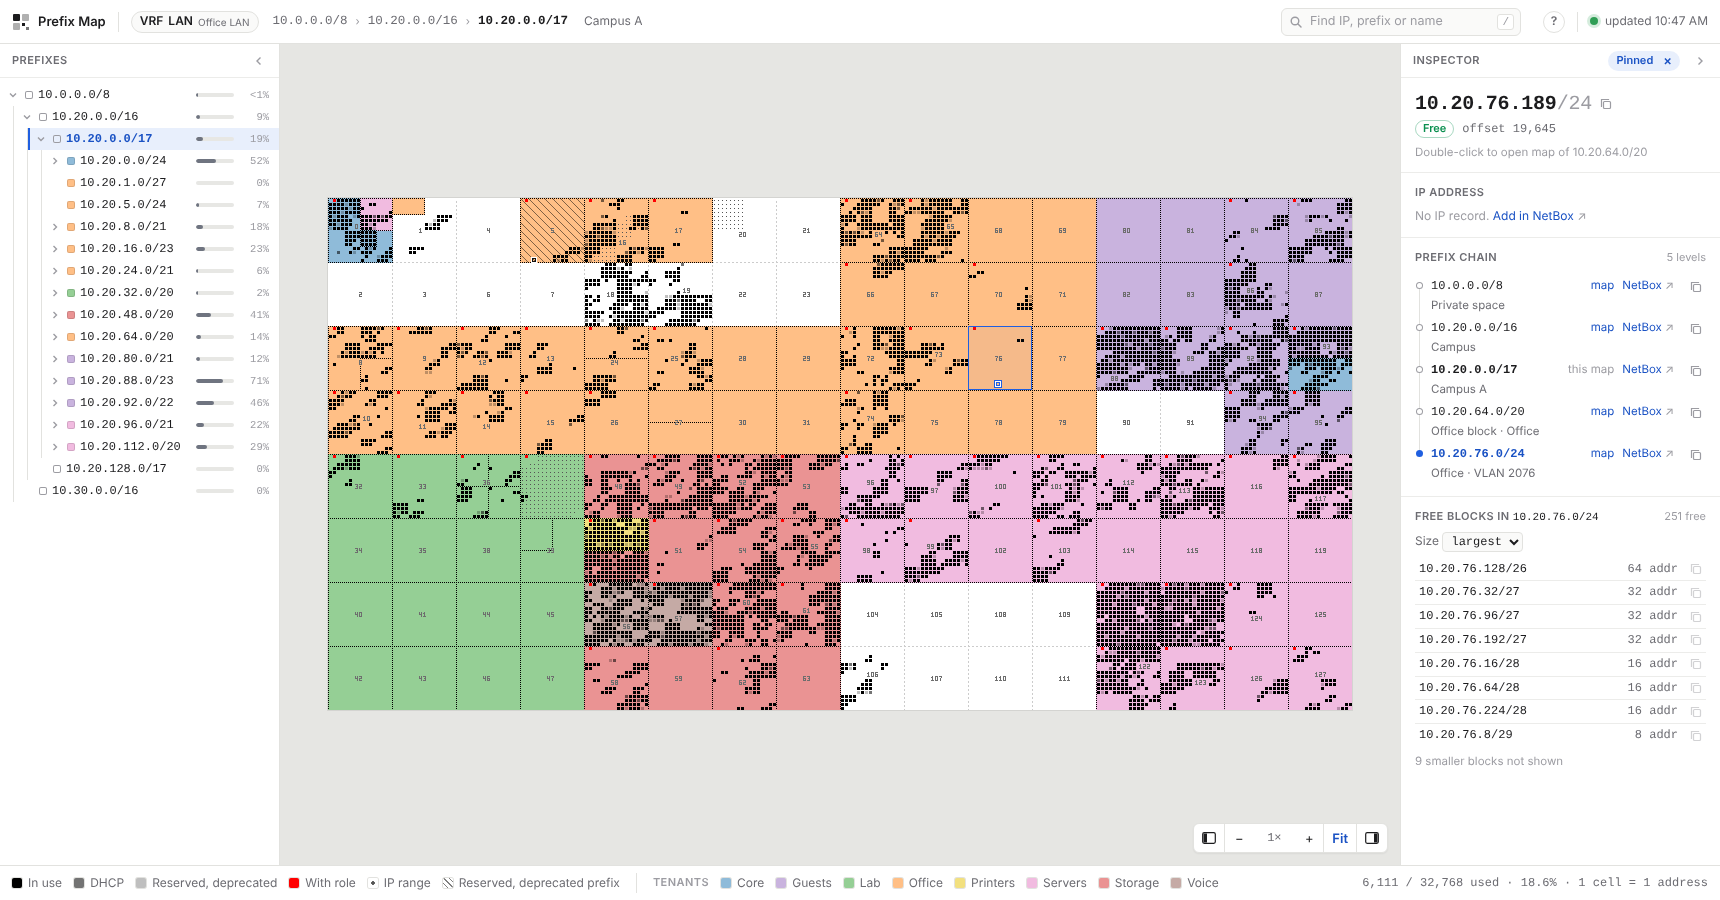
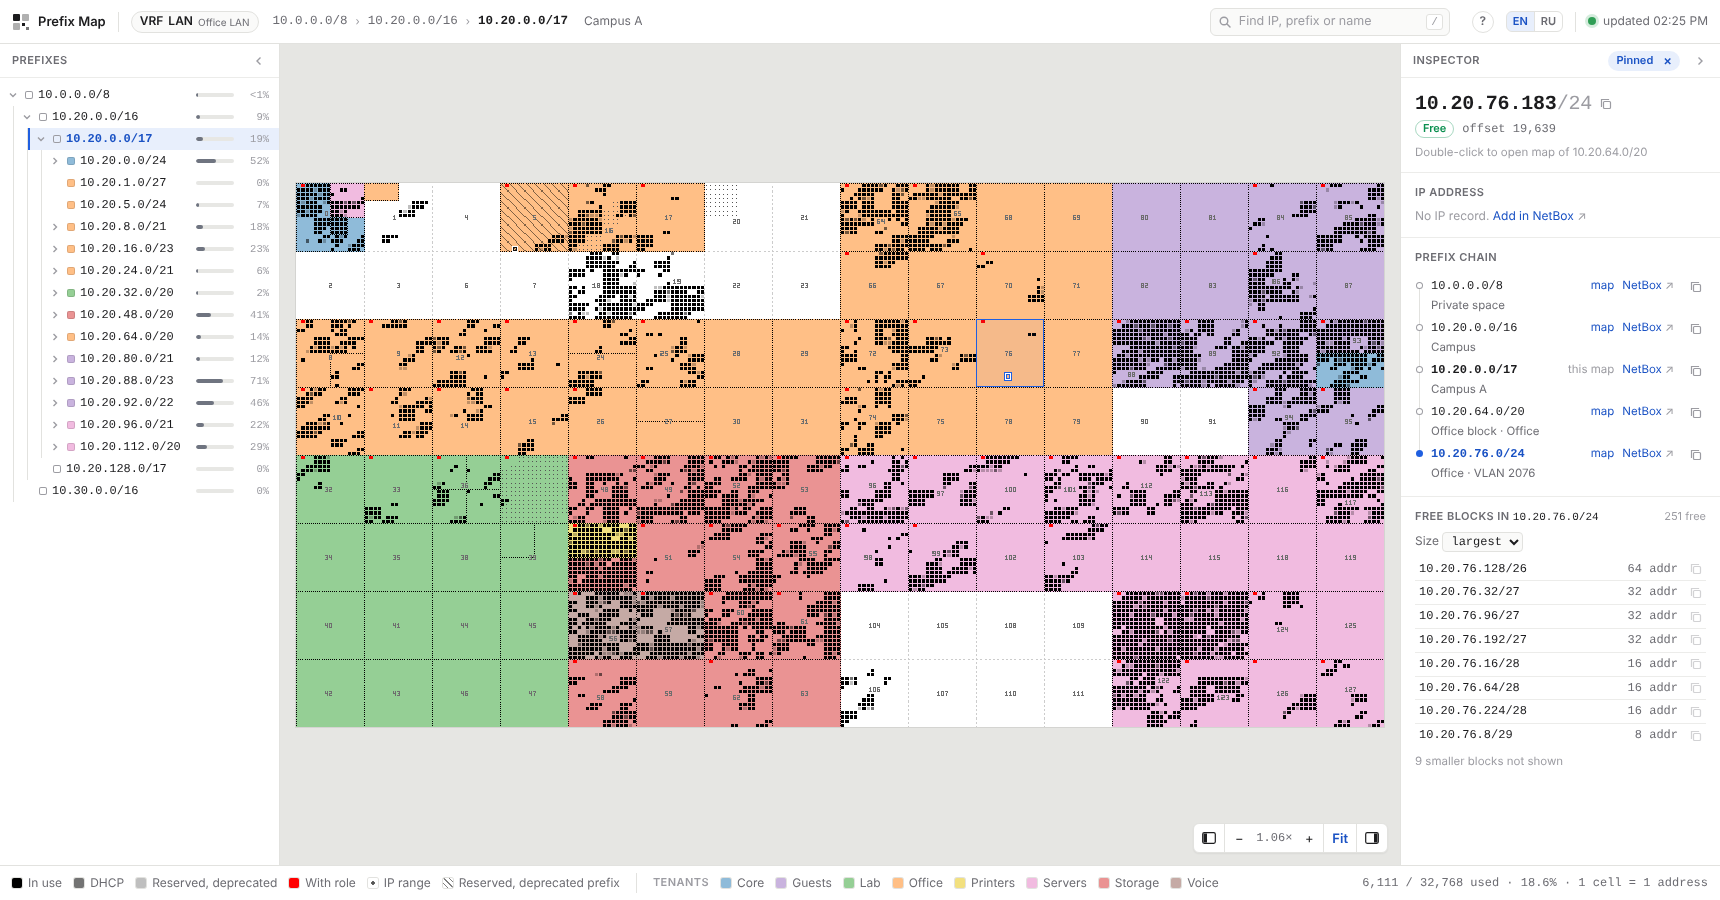
i18n: docs and screenshots
- README, README.ru and design notes: languages, language choice, adding a language
- Help mentions the language switch
- README hero regenerated with the switch; Russian hero for README.ru.md
- docs/img/screenshots.py renders both heroes

Assisted-by: Claude Opus 5.5

Changed region(s): [[0.1541, 0.1867, 0.832, 0.8089], [0.8628, 0.0, 0.986, 0.0311], [0.7087, 0.0, 0.832, 0.0311]]

diff --git a/templates/_help_ru.html b/templates/_help_ru.html
@@ -33,6 +33,7 @@
         <li>Контейнер в глобальном VRF охватывает все VRF, как в NetBox. Если у адреса несколько записей (в разных VRF или дубликаты), карта показывает запись с ролью, затем активную, затем зарезервированную, затем неактивную. Инспектор перечисляет все записи, а сводка префикса — такие адреса.</li>
         <li>«Последнее изменение» в сводке префикса показывает, что добавило, удалило или изменило последнее обновление, затронувшее этот префикс: записи IP (статус, роль, DNS-имя) и дочерние префиксы. «Показать на карте» обводит их: зелёным — добавленные, красным — удалённые, жёлтым — изменённые. Ниже, в истории, — последние 10 обновлений, изменивших префикс; щёлкните строку, чтобы показать её.</li>
         <li>Только IPv4.</li>
+        <li>Язык страницы — язык браузера, русский или английский; переключатель EN/RU в верхней панели меняет его.</li>
     </ul>
 
     <h2>Работа с картой</h2>

diff --git a/templates/_help_en.html b/templates/_help_en.html
@@ -33,6 +33,7 @@
         <li>A container in the Global VRF spans all VRFs, as in NetBox. When one address has several records (several VRFs, or duplicates), the map shows the one with a role, then an active one, then reserved, then inactive. The inspector lists all of them and the prefix summary lists such addresses.</li>
         <li>"Last change" in the prefix summary lists what the last update that changed this prefix added, removed or changed: IP records (status, role, DNS name) and child prefixes. "Show on the map" outlines them: green added, red removed, amber changed. The history below lists the last 10 updates that changed the prefix; click one to show it.</li>
         <li>IPv4 only.</li>
+        <li>The page follows the browser language, English or Russian; EN and RU in the top bar switch it.</li>
     </ul>
 
     <h2>Working with the map</h2>

diff --git a/docs/img/screenshots.py b/docs/img/screenshots.py
@@ -5,7 +5,8 @@ Regenerate the README screenshots (docs/img/*.png) from the synthetic dataset.
     OUTPUT_DIR=/tmp/pm INITIAL_UPDATE=0 NETBOX_API_URL=https://netbox.example.com python -m app.webapp &
     python docs/img/screenshots.py      # set PLAYWRIGHT_CHROMIUM_EXECUTABLE if needed
 
-static/img/z-order.svg is drawn by hand and not regenerated here.
+hero.png is English, hero.ru.png Russian (README.ru.md). static/img/z-order.svg and z-order.ru.svg are drawn by hand and
+not regenerated here.
 """
 import os
 import time
@@ -13,15 +14,17 @@ from playwright.sync_api import sync_playwright
 B = "http://localhost:5000/prefix-map"
 with sync_playwright() as p:
     b = p.chromium.launch(executable_path=os.getenv("PLAYWRIGHT_CHROMIUM_EXECUTABLE") or None)
-    ctx = b.new_context(viewport={"width": 1720, "height": 900}, device_scale_factor=1, color_scheme="light")
-    pg = ctx.new_page()
-    pg.goto(B + "/map/1/10_20_0_0_17"); pg.wait_for_function("document.body.dataset.ready")
-    pg.evaluate("localStorage.setItem('prefix-map.free-size','')")
-    box = pg.locator("#map-img").bounding_box()
-    pg.mouse.click(box["x"] + box["width"] * 0.655, box["y"] + box["height"] * 0.36)
-    pg.mouse.move(box["x"] + box["width"] * 0.2, box["y"] + box["height"] * 0.12)
-    time.sleep(0.4)
-    pg.screenshot(path="docs/img/hero.png")
+    for lang, hero in [("ru", "docs/img/hero.ru.png"), ("en", "docs/img/hero.png")]:
+        ctx = b.new_context(viewport={"width": 1720, "height": 900}, device_scale_factor=1, color_scheme="light",
+                            locale=lang, extra_http_headers={"Accept-Language": lang})
+        pg = ctx.new_page()
+        pg.goto(B + "/map/1/10_20_0_0_17"); pg.wait_for_function("document.body.dataset.ready")
+        pg.evaluate("localStorage.setItem('prefix-map.free-size','')")
+        box = pg.locator("#map-img").bounding_box()
+        pg.mouse.click(box["x"] + box["width"] * 0.655, box["y"] + box["height"] * 0.36)
+        pg.mouse.move(box["x"] + box["width"] * 0.2, box["y"] + box["height"] * 0.12)
+        time.sleep(0.4)
+        pg.screenshot(path=hero)
     # zoom levels: exported SVG of each level, rendered at one size
     for name, path in [("level-8", "/map/1/10_0_0_0_8"), ("level-16", "/map/1/10_20_0_0_16"), ("level-24", "/map/1/10_20_50_0_24")]:
         pg.goto(B + path); pg.wait_for_function("document.body.dataset.ready")

diff --git a/README.ru.md b/README.ru.md
@@ -2,15 +2,15 @@
 
 **Карта мира для вашего адресного пространства IPv4.** Каждый адрес — ячейка, каждая подсеть — прямоугольник, у каждого арендатора свой цвет. Сразу видно, что занято, что свободно и кому принадлежит, от /8 до отдельного адреса.
 
-![Карта /17: блоки арендаторов, занятые адреса, закреплённый свободный адрес с цепочкой префиксов и свободными блоками](docs/img/hero.png)
+![Карта /17: блоки арендаторов, занятые адреса, закреплённый свободный адрес с цепочкой префиксов и свободными блоками](docs/img/hero.ru.png)
 
 ## Как читать карту
 
 Адреса идут по Z-кривой (порядок Мортона): первая половина префикса — верхняя или левая половина карты, первая четверть — левая верхняя четверть и так далее. Поэтому любая выровненная подсеть — прямоугольник: /24 на карте /16 — квадрат 16 × 16, /25 — его половина. Серые числа на карте — октеты, по которым эти квадраты различаются, например третий октет каждой /24.
 
-![Z-порядок в /27: адреса от 0 до 31, /30, /29 и /28 — прямоугольники](static/img/z-order.svg)
+![Z-порядок в /27: адреса от 0 до 31, /30, /29 и /28 — прямоугольники](static/img/z-order.ru.svg)
 
-Возможности: инспектор адреса и цепочки префиксов, свободные блоки заданного размера с копированием и поиск свободных блоков во всех VRF (`free /26` в строке поиска), ссылка на закреплённый адрес, печать векторной карты с легендой (в цвете или чёрно-белой со штриховкой арендаторов), выгрузка SVG, управление с клавиатуры, масштаб колесом и щипком и перетаскивание карты, как в картографическом приложении, подсветка префиксов арендатора по щелчку в легенде.
+Возможности: инспектор адреса и цепочки префиксов, свободные блоки заданного размера с копированием и поиск свободных блоков во всех VRF (`свободные /26` или `free /26` в строке поиска), ссылка на закреплённый адрес, печать векторной карты с легендой (в цвете или чёрно-белой со штриховкой арендаторов), выгрузка SVG, управление с клавиатуры, масштаб колесом и щипком и перетаскивание карты, как в картографическом приложении, подсветка префиксов арендатора по щелчку в легенде. Интерфейс на русском и английском: язык берётся из браузера, переключатель EN/RU в верхней панели запоминает выбор в cookie, `?lang=ru` в ссылке открывает страницу на русском. Печать и SVG тоже на языке страницы.
 
 Отображает IPv4-префиксы из [NetBox](https://github.com/netbox-community/netbox) в виде пиксельной сетки: одна ячейка на адрес, порядок ячеек по Z-кривой, поэтому любая выровненная подсеть занимает прямоугольник. Дочерние префиксы закрашены цветом арендатора (tenant), зарезервированные и устаревшие (reserved, deprecated) заштрихованы диагональю, занятые адреса нарисованы поверх. Карты перестраиваются, когда NetBox сообщает об изменениях через webhook.
 
@@ -141,6 +141,8 @@ make lint    # flake8, также в CI
 ```
 
 Тесты работают без NetBox на синтетических данных (`tests/synthetic_data.py`). Устройство приложения: [docs/design.md](docs/design.md).
+
+Тексты интерфейса — в `app/locales/<язык>.json` (общие для шаблонов и скриптов) и `templates/_help_<язык>.html` (справка). Чтобы добавить язык, скопируйте `en.json` и `_help_en.html`, переведите и добавьте код в `LANGUAGES` в `app/i18n.py`. Тесты проверяют, что у каждого языка те же ключи, подстановки, формы множественного числа и структура справки, что и у английского, и что на русских страницах нет английского текста.
 
 ## Участие
 

diff --git a/docs/design.md b/docs/design.md
@@ -10,10 +10,12 @@
 | `app/plot_map.py` | Image rendering (matplotlib, Agg backend) |
 | `app/updater_manager.py` | Background update scheduling |
 | `app/webapp.py` | Flask application: pages, data endpoint, webhook, health and metrics |
+| `app/i18n.py` | UI language: message catalogues, language choice, plurals |
 | `static/js/map.js` | Map page: zoom, overlays, inspector, legend, search within the map |
 | `static/js/map_export.js` | SVG export and print sheet of the map |
 | `static/js/prefix_tree.js` | Prefix tree in the map page sidebar |
-| `static/js/topbar.js` | Top bar: freshness indicator, search box |
+| `static/js/topbar.js` | Top bar: freshness indicator, search box, language switch |
+| `static/js/i18n.js` | Messages, plurals, number and date formats in the page scripts |
 
 ## Update run
 
@@ -108,6 +110,19 @@ Layout: top bar (VRF, prefix path, search, freshness), prefix tree on the left, 
 - Clicking a tenant in the legend (or Enter on it) outlines its outermost prefixes on the map and lists them in the inspector summary with usage; a row outlines that prefix. The tenant goes to `?tenant=<id>` next to `?focus=`, so the URL opens with the same outline. Clicking the tenant again, or "Clear outline", clears it.
 - The freshness dot polls `/healthz` and turns amber when the last update failed, the updater stopped or the data is older than 24 h.
 - Colors of the page follow the system light or dark theme; the map keeps its white background.
+
+## Languages
+
+The interface is in English (default) and Russian.
+
+- Language of a request: `?lang=` (stored in the `lang` cookie, path `BASE_PATH`, one year), then the cookie, then `Accept-Language`, then English. HTML responses vary on `Accept-Language` and `Cookie`. URLs, data files and JSON keys do not depend on the language.
+- Messages are in `app/locales/<lang>.json`: a string with `{name}` placeholders, or plural forms (`one`, `other` in English; `one`, `few`, `many` in Russian) chosen by the count `n`. Templates call `t(key, ...)`; a page embeds the catalogue of its language (`#i18n`, English filling missing keys) for `static/js/i18n.js`, which picks plural forms with `Intl.PluralRules`. `{n}` is written with the digit grouping of the language (1,234; 1 234).
+- Numbers, dates and times in the scripts use the browser's variant of the page language (en-GB, ru-RU) when it has one.
+- The help body is one template per language (`templates/_help_<lang>.html`) with the same structure; the Z-order diagram has a Russian copy (`static/img/z-order.ru.svg`).
+- NetBox statuses are shown through `status.<value>` messages; tenant, role, VRF names and descriptions are shown as they are. The Global VRF is named in the page language; `vrf_name` in `/search` results stays `Global`.
+- `/search` errors carry `error` in the request language and `error_code` (`bad_query`, `bad_prefix`, `free_not_ready`). The free-block search also accepts `свободные /26 в 10.20.0.0/16`.
+- Log lines, `/metrics`, `/healthz` and webhook replies stay in English.
+- Keyboard shortcuts `c`, `[`, `]` and `/` also work on the Russian layout, where they give other characters: the physical key counts (`KeyboardEvent.code`).
 
 ## Observability
 

diff --git a/README.md b/README.md
@@ -13,6 +13,7 @@ The maps are drawn from [NetBox](https://github.com/netbox-community/netbox) pre
 - **Find space.** Pick a size such as /26 to list the first free blocks of that size, then copy one with a click. Type `free /26` in the search box to find free blocks in all VRFs at once. Search by address, prefix, DNS name or description across all VRFs. Click a tenant in the legend to outline its prefixes and list them with usage.
 - **Share and print.** The URL keeps the pinned address. Print gives a vector map with title and legend, in colour or black and white with hatched tenants, and "Download SVG" saves the same drawing.
 - **Work from the keyboard.** Arrow keys move the pin, Enter opens the child prefix or the IP in NetBox, `c` copies, `/` searches, `+` `-` `0` zoom. The wheel and pinch zoom about the pointer and dragging moves the map, as in a map app.
+- **English or Russian.** The interface follows the browser language; EN and RU in the top bar switch it, and the choice is kept in a cookie. `?lang=ru` on any page link opens it in Russian. Print and SVG export follow the page language.
 
 ## How to read the map
 
@@ -133,7 +134,7 @@ All paths are relative to `BASE_PATH`.
 | `/` | VRF list with prefix and address counts |
 | `/map/<vrf>` | Top-level prefixes of a VRF with usage |
 | `/map/<vrf>/<prefix>` | Map page; `<vrf>` is the VRF id or `None` for Global, `<prefix>` uses `_` for `.` and `/` |
-| `/search?q=<query>` | Maps showing an IPv4 address or prefix, or matching a name or description, across VRFs; `free /26` lists free blocks (JSON) |
+| `/search?q=<query>` | Maps showing an IPv4 address or prefix, or matching a name or description, across VRFs; `free /26` lists free blocks (JSON). Errors carry `error` in the page language and `error_code` |
 | `/webhook` | NetBox webhook receiver |
 | `/healthz` | Liveness and data age (JSON); used by the container healthcheck |
 | `/metrics` | Prometheus metrics |
@@ -156,6 +157,8 @@ make lint    # flake8, also run in CI
 ```
 
 Tests run offline against a synthetic dataset (`tests/synthetic_data.py`). Design notes: [docs/design.md](docs/design.md).
+
+UI text lives in `app/locales/<lang>.json`, shared by templates and scripts, and in `templates/_help_<lang>.html` for the help page. To add a language, copy `en.json` and `_help_en.html`, translate them and add the code to `LANGUAGES` in `app/i18n.py`. The tests check that every language has the same keys, placeholders, plural forms and help structure as English, and that Russian pages show no English.
 
 ## Contributing
 
